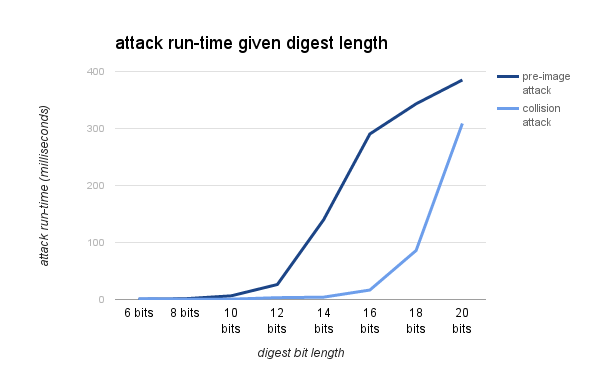
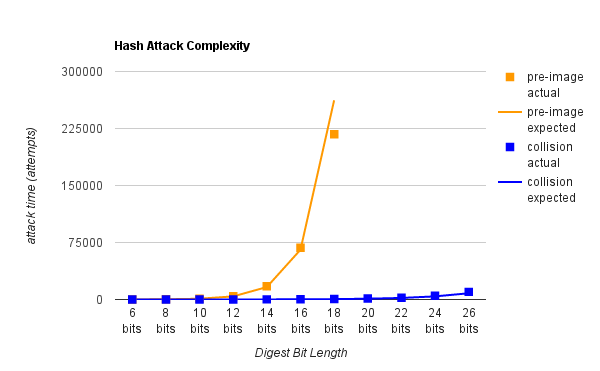
data for attempts not runtime

diff --git a/README.md b/README.md
@@ -6,22 +6,23 @@ For this project, it is my intent to see if the complexity of pre-image and coll
 
 ## Summary
 To start, I created a wrapper around SHA-1 that would hash a pre-image and truncate the result to the length passed in. In this way, I analyzed the complexity of attacking SHA-1 as digest length increases.
-Two types of attacks were attempted: pre-image and collision. The first of those involves finding a pre-image and digest pair that match another random pre-image and digest pair. This has a predicted complexity of O(2<sup>n</sup>) because the hashing algorithm is non-reversable; therefore, random pre-images must be hashed until a digest is found that matches the original. The second attack involved finding any two separate pre-images that hashed to the same digest. This attack has a lower predicted complexity of O(2<sup>n/2</sup>)
-To gather data, I wrote a script to try each type of attack 50 times against 8 different digest sizes. To speed up the process, the trials were multithreaded 3 at a time. This script was created in the Ruby language, and the source code is attached to this assignment.
+Two types of attacks were attempted: pre-image and collision. The first of those involves finding a pre-image and digest pair that match another random pre-image and digest pair. This has a predicted complexity of 2<sup>n</sup> where ‘n’ is the digest bit length. The second attack involves finding any two separate pre-images that hashed to the same digest. This attack has a lower predicted complexity of 2<sup>n/2</sup>. The pre-image attack has a much higher complexity because the hashing algorithm is non-reversable; therefore, random pre-images must be used until a valid digest is found. In the collision attack on the other hand, computed digests are effectively reused until a newly computed digest matches an older digest.
+To gather data, I wrote a script to try each type of attack 50 times against 8 different digest sizes. This script would record how many pre-images were hashed until a valid digest was found. To speed up the process, the trials were multithreaded 3 at a time. This script was created in the Ruby language.
 
 ## Results
-The average runtime (given in miliseconds) for the experiment is listed in the table below. Each bit length was tested 50 times, and the averages were recorded.
+The average hash attempts before a valid digest was found is listed in the table below. Each bit length was tested 50 times, and the averages were recorded.
 
-## Analysis
-The results of this experiment match what I expected. As I said earlier, the pre-image attack has a complexity of O(2<sup>n</sup>) whereas the collision attack only has a complexity of O(2<sup>n/2</sup>). This is clearly shown in the graph where both curves are exponential, but the pre-image attack starts growing much sooner and at a faster rate.
+                     | 6 bits | 8 bits | 10 bits | 12 bits | 14 bits | 16 bits | 18 bits 
+-------------------- | ------ | ------ | ------- | ------- | ------- | ------- | -------
+**pre-image attack** | 62     | 235    | 1000    | 4131    | 17550   | 68023   | 217350  
+**collision attack** | 11     | 22     | 38      | 82      | 159     | 289     | 711     
 
-                     | 6 bits | 8 bits | 10 bits | 12 bits | 14 bits | 16 bits | 18 bits | 20 bits
--------------------- | ------ | ------ | ------- | ------- | ------- | ------- | ------- | -------
-**pre-image attack** | 0.5    | 1.3    | 6.4     | 26.3    | 140     | 290.4   | 343.3   | 385.1
-**collision attack** | 1.5    | 0.5    | 0.6     | 3.2     | 4.1     | 16.6    | 86      | 308.8
+The graph for the table above is given below (on the next page). The results are given by the discrete squares, and the lines correspond to the expected values based on the given complexities: 2<sup>n/2</sup> and 2<sup>n</sup>. To see the non-linear collision data more clearly, extra data points were measured and added.
 
-The graph for the table above is given below:
 ![alt text](https://github.com/mcrossen/hashattack/raw/master/results.png)
 
+## Analysis
+The results of this experiment match what I expected. As I said earlier, the pre-image attack has a complexity of 2<sup>n</sup>. whereas the collision attack only has a complexity of 2<sup>n/2</sup>. This is clearly shown in the graph where both curves fit their expected complexities almost exactly.
+
 ## Conclusion
-The data from this experiment shows that original complexity calculations of O(2<sup>n</sup>) and O(2<sup>n/2</sup>) for pre-image and collision attacks (respectively) was correct.
+The data from this experiment shows that original complexity calculations of 2<sup>n</sup> and 2<sup>n/2</sup> for pre-image and collision attacks (respectively) was correct.
